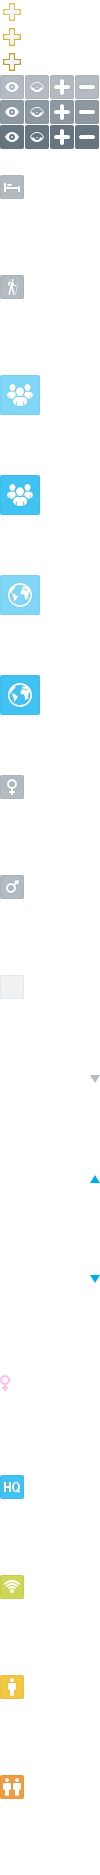
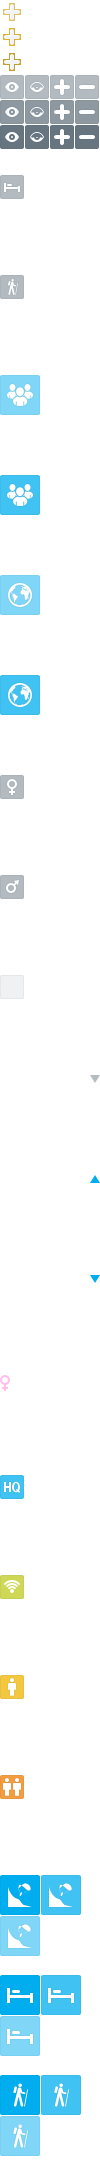
Issue #2851 comment 21-24

diff --git a/sites/all/themes/airtribune2/css/global.styles.css b/sites/all/themes/airtribune2/css/global.styles.css
@@ -2421,9 +2421,9 @@ p { margin:0; padding:9px 0 11px}
 
 .panel-col-seventy .block { margin-bottom:0}
 
-#page ul.tabs { margin:0 0 9px; padding:0 5px; border-bottom:1px solid #dce2e5; background:url(../images/tab_bgr_reg_hover.png) no-repeat -1000px 0;}
-#page ul.tabs li { margin:0 3px -1px; padding:0 1px; list-style:none; list-style-image:none; border-bottom:1px solid #ccd4d8; background:url(../images/tab_bgr_hover.png) no-repeat -1000px 0;}
-#page ul.tabs li a { border:1px solid #dfe6e9; position:relative; display:inline-block; margin:0; padding:0 18px; height:40px; font:24px/40px Arial, Helvetica, sans-serif; color:#7d9aa8; text-shadow: 0 1px 0 rgba(255,255,255,0.5); background:url(../images/tab_bgr.png) repeat 0 0; border-bottom:none;
+#page ul.tabs.primary { margin:0 0 9px; padding:0 5px; border-bottom:1px solid #dce2e5; background:url(../images/tab_bgr_reg_hover.png) no-repeat -1000px 0;}
+#page ul.tabs.primary li { margin:0 3px -1px; padding:0 1px; list-style:none; list-style-image:none; border-bottom:1px solid #ccd4d8; background:url(../images/tab_bgr_hover.png) no-repeat -1000px 0;}
+#page ul.tabs.primary li a { border:1px solid #dfe6e9; position:relative; display:inline-block; margin:0; padding:0 18px; height:40px; font:24px/40px Arial, Helvetica, sans-serif; color:#7d9aa8; text-shadow: 0 1px 0 rgba(255,255,255,0.5); background:url(../images/tab_bgr.png) repeat 0 0; border-bottom:none;
 
 	-webkit-border-radius: 2px 2px 0 0; 
 	-moz-border-radius: 2px 2px 0 0;
@@ -2434,19 +2434,19 @@ p { margin:0; padding:9px 0 11px}
 	-webkit-box-shadow: inset 0px 1px 4px #ffffff
 
 }
-#page ul.tabs li a.registration { color:#8f733b; background-image:url(../images/tab_bgr_reg.png); border-color: #d2b464;
+#page ul.tabs.primary li a.registration { color:#8f733b; background-image:url(../images/tab_bgr_reg.png); border-color: #d2b464;
 
 	box-shadow: 		inset 0px 1px 4px rgba(255,255,255,.5);
 	-moz-box-shadow: 	inset 0px 1px 4px rgba(255,255,255,.5);						
 	-webkit-box-shadow: inset 0px 1px 4px rgba(255,255,255,.5);
 
 }
-#page ul.tabs li a.registration:hover { color:#66522a; background-image: url(../images/tab_bgr_reg_hover.png);}
-#page ul.tabs li a:hover { color:#677581; background-image: url(../images/tab_bgr_hover.png)}
-#page ul.tabs li.active { border-bottom:none;}
-#page ul.tabs li.active a, #page ul.tabs li.active a:hover { background:#ffffff; border-color:#dce2e5; padding-bottom:1px; color:#677581}
-#page ul.tabs li.active a.registration, #page ul.tabs li.active a.registration:hover { color: #8f733b;}
-#page ul.tabs li.event_add { float: right;}
+#page ul.tabs.primary li a.registration:hover { color:#66522a; background-image: url(../images/tab_bgr_reg_hover.png);}
+#page ul.tabs.primary li a:hover { color:#677581; background-image: url(../images/tab_bgr_hover.png)}
+#page ul.tabs.primary li.active { border-bottom:none;}
+#page ul.tabs.primary li.active a, #page ul.tabs.primary li.active a:hover { background:#ffffff; border-color:#dce2e5; padding-bottom:1px; color:#677581}
+#page ul.tabs.primary li.active a.registration, #page ul.tabs.primary li.active a.registration:hover { color: #8f733b;}
+#page ul.tabs.primary li.event_add { float: right;}
 
 #page .view-events-list {}
 #page .view-events-list h3 { float:left; width:90px; background:url(../images/hide_year.png) no-repeat 100% 4px; position:relative; z-index:10; font:bold 24px/26px Arial, Helvetica, sans-serif; color:#00aeef; clear:both; margin:0 -11px 0 0;}
@@ -3198,12 +3198,30 @@ html.js .page-user-edit form legend .fieldset-legend a { color: #1b53ff}
 
 
 .page-event-pilots .view-paragliding-pilots-list .views-table {}
-.switch-pilots-view { float: right; padding: 9px 0 18px;}
-.switch-pilots-view a { display: block; width: 40px; height: 41px; float: left; overflow: hidden; text-indent: -9999px; background: url(../images/table_action.png) no-repeat 0 -1000px; margin-left: 10px;}
+.switch-pilots-view,
+#page ul.tabs.secondary { float: right; padding: 9px 0 18px; border-bottom: none;}
+.switch-pilots-view a,
+#page ul.tabs.secondary a { display: block; width: 40px; height: 41px; float: left; overflow: hidden; text-indent: -9999px; background: url(../images/table_action.png) no-repeat 0 -1000px; margin-left: 10px;}
 .switch-pilots-view a.by-status { background-position: 0 -375px}
 .switch-pilots-view a.by-status:hover, .switch-pilots-view a.by-status.active { background-position: 0 -475px}
 .switch-pilots-view a.by-nation { background-position: 0 -575px}
 .switch-pilots-view a.by-nation:hover, .switch-pilots-view a.by-nation.active { background-position: 0 -675px}
+
+#page ul.tabs.secondary { margin-top: 11px; padding-bottom: 0;}
+#page ul.tabs.secondary a { width: 41px; margin-left: 9px;}
+#page ul.tabs.secondary li { float: left; padding: 0;}
+#page ul.tabs.secondary a#basic-tab { background-position: 0 -1916px}
+#page ul.tabs.secondary a#basic-tab:hover { background-position: -41px -1875px}
+#page ul.tabs.secondary a#basic-tab:active,
+#page ul.tabs.secondary a#basic-tab.active { background-position: 0 -1875px}
+#page ul.tabs.secondary a#accommodations-tab { background-position: 0 -2016px}
+#page ul.tabs.secondary a#accommodations-tab:hover { background-position: -41px -1975px}
+#page ul.tabs.secondary a#accommodations-tab:active,
+#page ul.tabs.secondary a#accommodations-tab.active { background-position: 0 -1975px}
+#page ul.tabs.secondary a#activities-tab { background-position: 0 -2116px}
+#page ul.tabs.secondary a#activities-tab:hover { background-position: -41px -2075px}
+#page ul.tabs.secondary a#activities-tab:active,
+#page ul.tabs.secondary a#activities-tab.active { background-position: 0 -2075px}
 
 .pane-paragliding-pilots-list-fai {}
 .pane-paragliding-pilots-list-fai, .pane-paragliding-pilots-list-standard { clear: both;}
@@ -3517,15 +3535,15 @@ table tr td.:first-child { border-left: none;}
 .page-event-map .pane-page-content .pane-views-panes span.currency-EUR:after { content: " EUR"}
 .page-event-map .pane-page-content .pane-views-panes span.currency-USD:after { content: " USD"}
 
-.page-event-map .pane-page-content .pane-views-panes .views-field-body { clear: both; padding-bottom: 17px; font: 12px/15px Arial, Helvetica, sans-serif; margin-left: 2px; height: 50px; overflow: hidden;}
+.page-event-map .pane-page-content .pane-views-panes .views-field-body { clear: both; margin-bottom: 17px; font: 12px/15px Arial, Helvetica, sans-serif; margin-left: 2px; height: 50px; overflow: hidden;}
 .page-event-map .pane-page-content .pane-views-panes .views-field-body p { padding-top: 7px;}
 
-.page-event-map .pane-page-content .pane-views-panes .views-field-field-phone,
+.page-event-map .pane-page-content .pane-views-panes .views-field-field-place-phone,
 .page-event-map .pane-page-content .pane-views-panes .views-field-field-email { display: inline; margin-left: 1px;}
-.page-event-map .pane-page-content .pane-views-panes .views-field-field-phone { margin-right: 16px;}
-.page-event-map .pane-page-content .pane-views-panes .views-field-field-phone .views-label,
+.page-event-map .pane-page-content .pane-views-panes .views-field-field-place-phone { margin-right: 11px;}
+.page-event-map .pane-page-content .pane-views-panes .views-field-field-place-phone .views-label,
 .page-event-map .pane-page-content .pane-views-panes .views-field-field-email .views-label { display: inline; font-weight: bold;}
-.page-event-map .pane-page-content .pane-views-panes .views-field-field-phone .field-content,
+.page-event-map .pane-page-content .pane-views-panes .views-field-field-place-phone .field-content,
 .page-event-map .pane-page-content .pane-views-panes .views-field-field-email .field-content { display: inline;}
 
 #disqus_thread { padding-top: 35px;}
